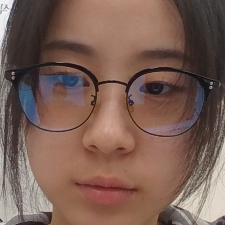
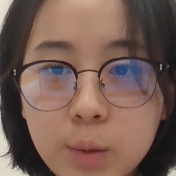
My turn 버튼 클릭 시 자동으로 인풋 박스에 포커스되도록 수정. 플레이어 인덱스 전달 인자 제대로 넘겨서 정답/오답 처리 되도록 수정.

diff --git a/src/renderer/views/GameView.jsx b/src/renderer/views/GameView.jsx
@@ -42,7 +42,7 @@ export default function GameView() {
       // 이미 시작되어 있고 다음 라운드가 아니면 중복 초기화 금지
       if (controller.gameStarted && !location.state?.nextRound) return;
 
-      if (location.state?.nextRound) {
+      if (location.state?.nextRound) {  // 기존 점수 유지하면서 게임 재시작
         await controller.restartGame({
           difficulty: location.state.difficulty ?? state?.difficulty ?? 0,
           // 플레이어는 controller의 state를 그대로 사용하므로 별도 setPlayerInfo 호출 X
@@ -106,7 +106,7 @@ export default function GameView() {
     navigate("/start", { replace: true });
   };
 
-  // ✅ 안전 아바타: photoPath가 있으면 image, 아니면 "👤"
+  // 안전 아바타: photoPath가 있으면 image, 아니면 "👤"
   const Avatar = ({ photoPath, alt, className }) =>
     photoPath ? (
       <img
@@ -114,14 +114,14 @@ export default function GameView() {
         src={photoPath}
         alt={alt}
         className={className}
-        onError={(e) => {
-          const [base] = (photoPath || "").split("?");
-          e.currentTarget.src = `${base}?t=${Date.now()}`;
-        }}
+        //onError={(e) => {
+          ///const [base] = (photoPath || "").split("?");
+          //e.currentTarget.src = `${base}?t=${Date.now()}`;
+        //}}
       />
     ) : (
       "👤"
-    );
+  );
 
   return (
     <div className="game-view">
@@ -169,7 +169,7 @@ export default function GameView() {
               }`}
               onClick={() => {
                 SoundManager.play("clickTurn");
-                controller?.startTurn?.("player1");
+                controller?.startTurn?.(0);
               }}
               disabled={!!state?.turnActive || (player1?.hp ?? 0) <= 0}
             >
@@ -232,7 +232,7 @@ export default function GameView() {
               }`}
               onClick={() => {
                 SoundManager.play("clickTurn");
-                controller?.startTurn?.("player2");
+                controller?.startTurn?.(1);
               }}
               disabled={!!state?.turnActive || (player2?.hp ?? 0) <= 0}
             >

diff --git a/src/renderer/controllers/GameController.js b/src/renderer/controllers/GameController.js
@@ -324,12 +324,9 @@ export class GameController {
       player.addScore(100);
       opponent.subHP();
       opponent.setCombo(0);
-
       player.addWord(match);
-      const playerIndex = currentPlayerKey === "player1" ? 0 : 1;
-      SoundManager.playComboSound(player.getCombo())
-      this.board.highlightWord(match, playerIndex);
-
+      SoundManager.playComboSound(player.getCombo());
+      this.board.highlightWord(match, currentIdx);
       this.updateGridState();
       console.log("Correct word:", guess);
     } else {
